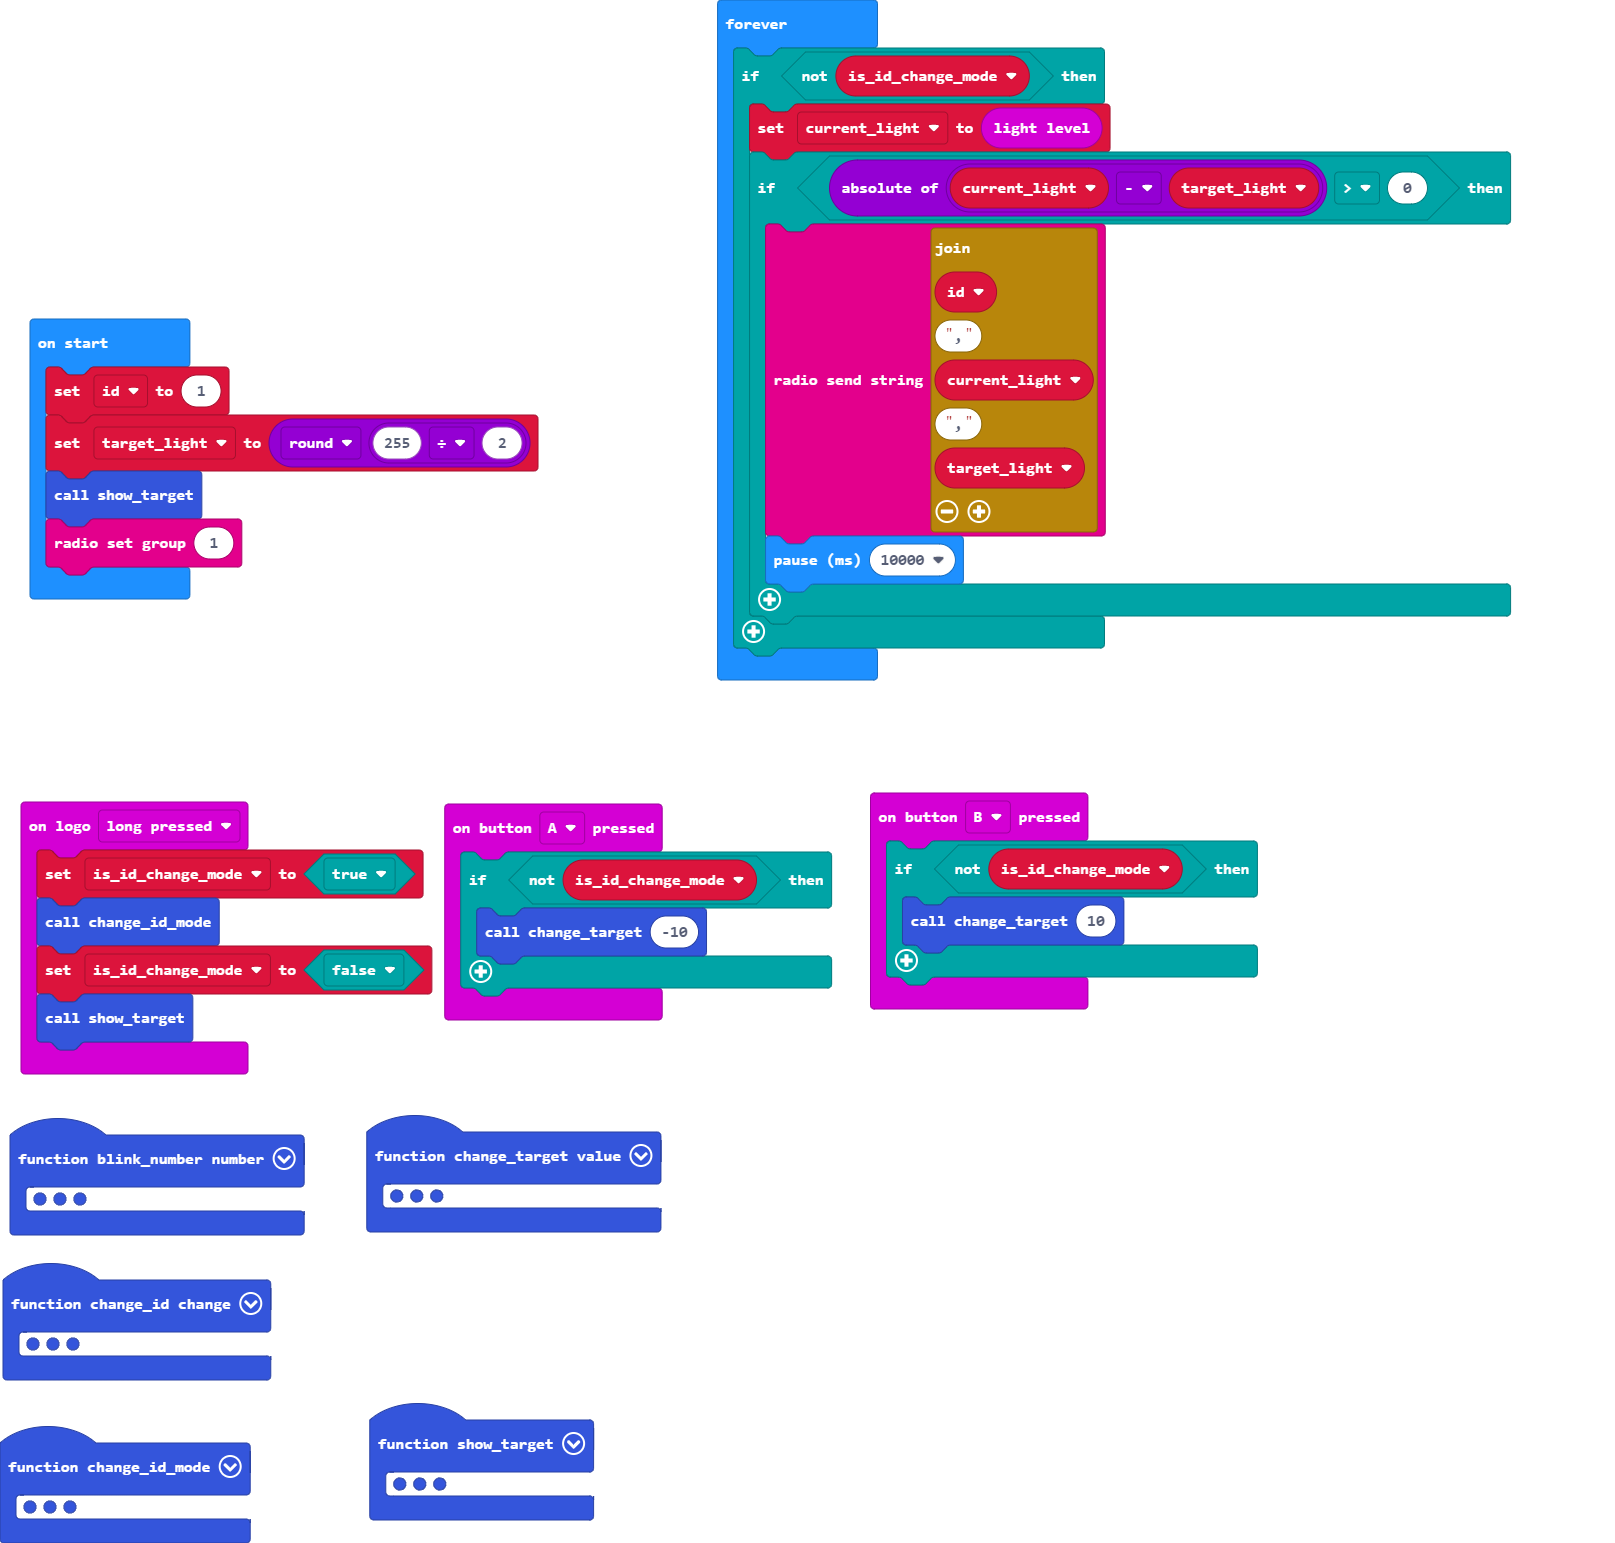
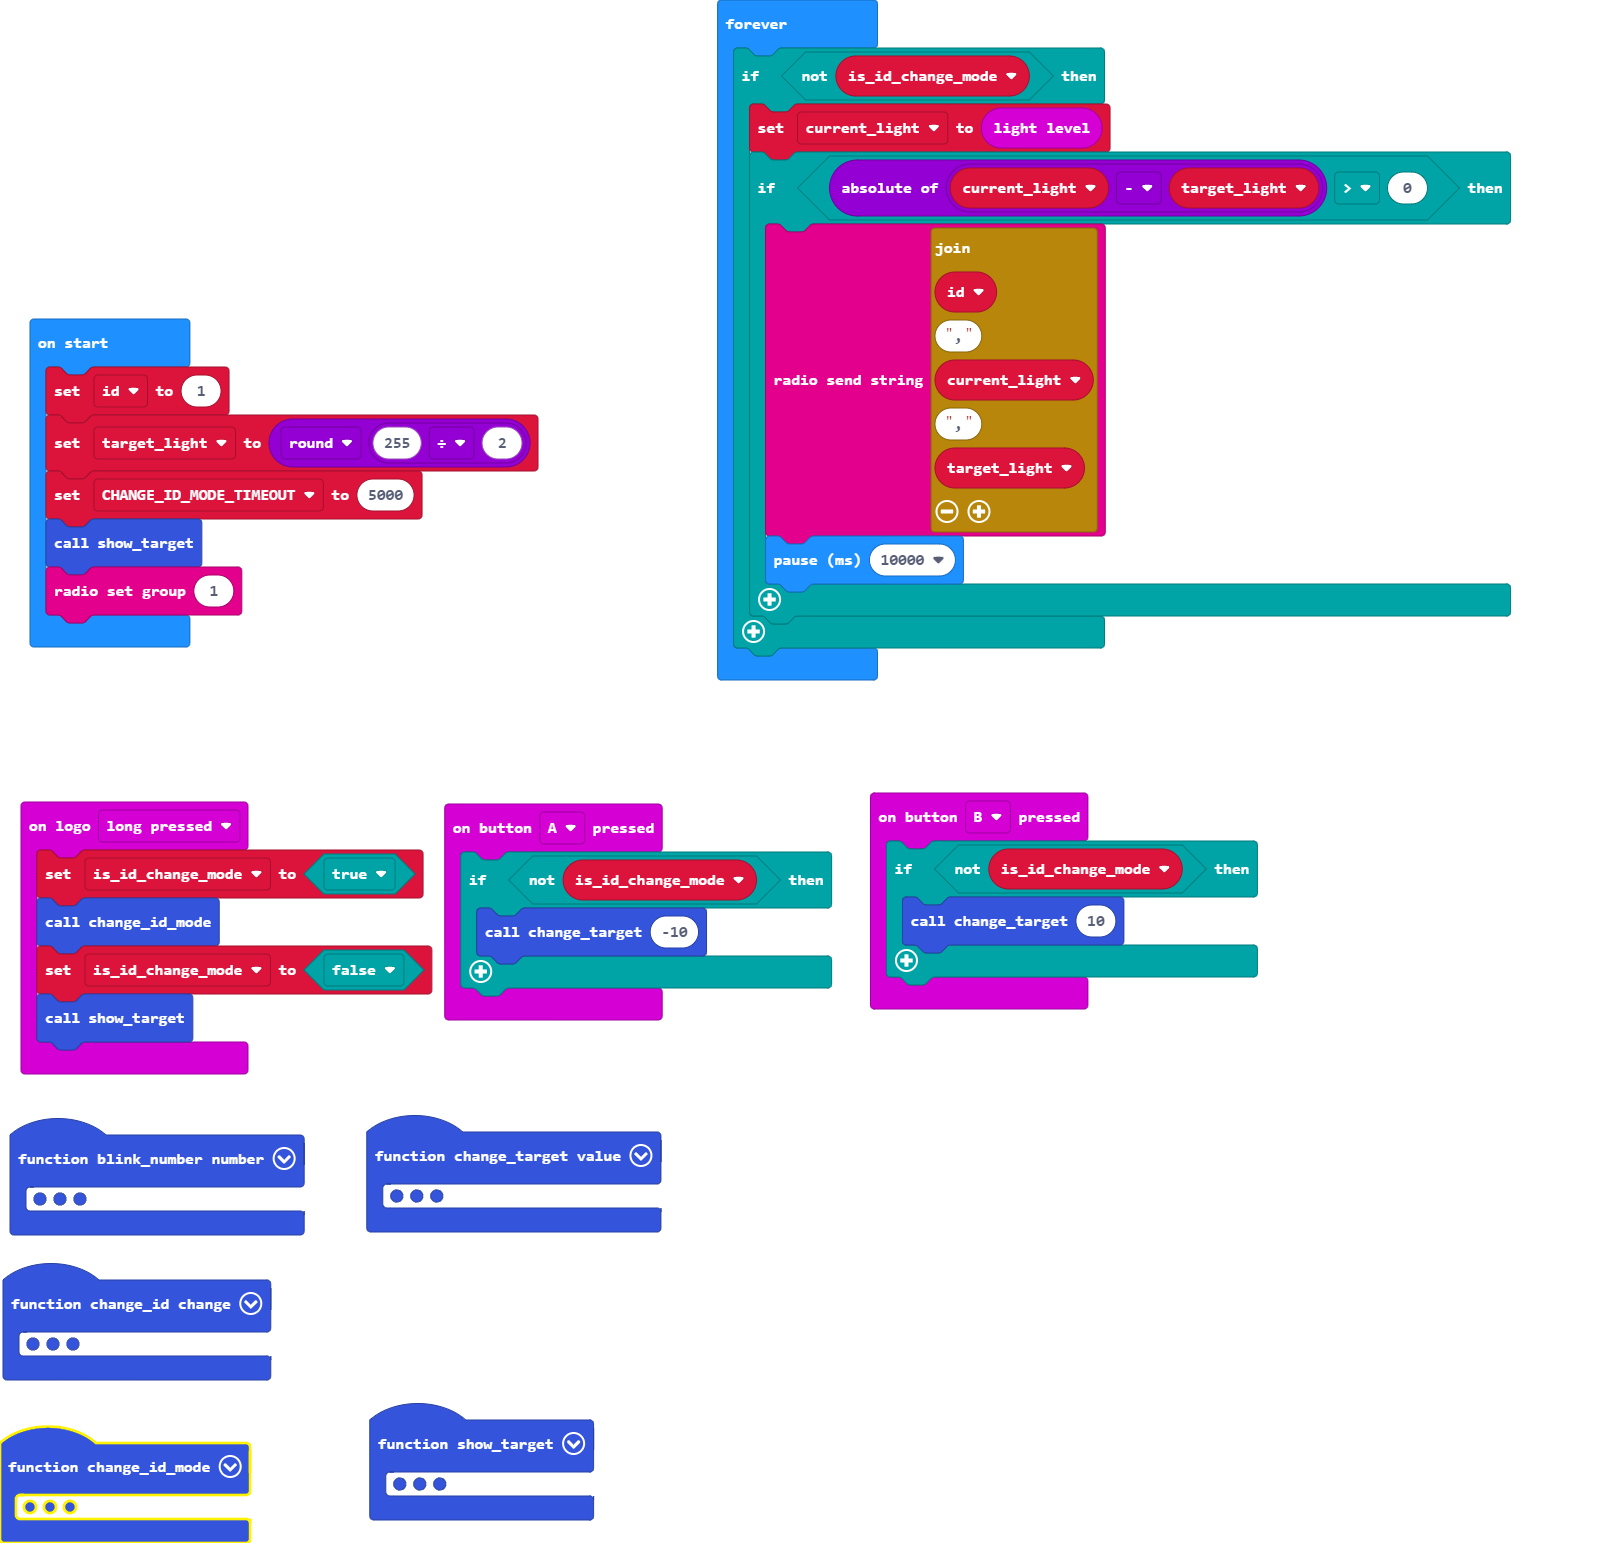
Update main.blocks, main.ts

Changed region(s): [[0.0, 0.28, 0.2786, 0.4355], [0.0, 0.9332, 0.1548, 1.0]]

diff --git a/main.ts b/main.ts
@@ -29,7 +29,7 @@ input.onButtonPressed(Button.B, function () {
 })
 function change_id (change: number) {
     id += change
-    id_change_timeout = control.millis() + 10000
+    id_change_timeout = control.millis() + CHANGE_ID_MODE_TIMEOUT
     basic.showNumber(id)
 }
 function show_target () {
@@ -39,7 +39,7 @@ function show_target () {
     )
 }
 function change_id_mode () {
-    id_change_timeout = control.millis() + 10000
+    id_change_timeout = control.millis() + CHANGE_ID_MODE_TIMEOUT
     basic.showNumber(id)
     while (control.millis() < id_change_timeout) {
         if (input.buttonIsPressed(Button.A)) {
@@ -53,10 +53,12 @@ function change_id_mode () {
 let current_light = 0
 let id_change_timeout = 0
 let is_id_change_mode = false
+let CHANGE_ID_MODE_TIMEOUT = 0
 let target_light = 0
 let id = 0
 id = 1
 target_light = Math.round(255 / 2)
+CHANGE_ID_MODE_TIMEOUT = 5000
 show_target()
 radio.setGroup(1)
 basic.forever(function () {
